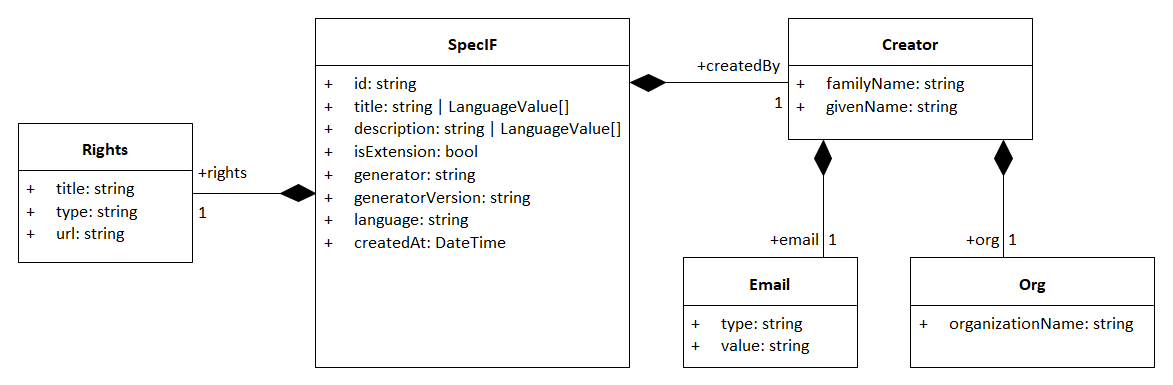
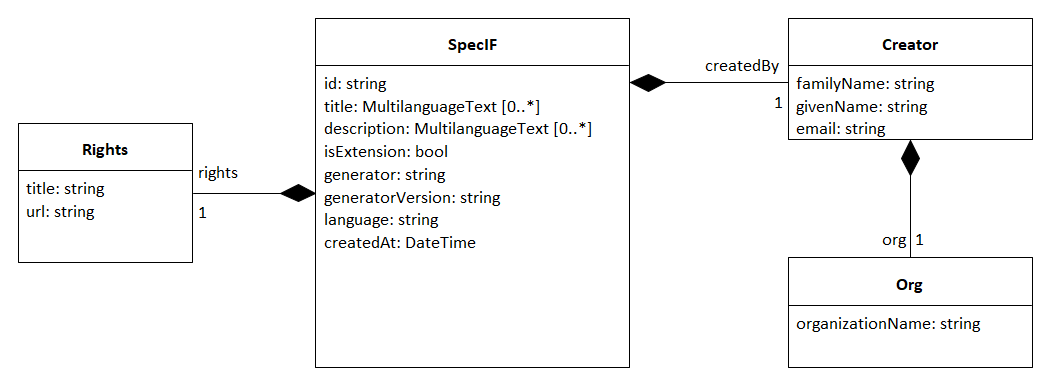
Rework of the metamodel chapter

diff --git a/documentation/03_SpecIF_Metamodel.md b/documentation/03_SpecIF_Metamodel.md
@@ -42,17 +42,17 @@ To express additional information about the SpecIF repository resp. the project 
 
 The SpecIF metaclass has the following attributes:
 
-* *id: string* -  A unique identifier for the SpecIF repository resp. the project represented by the SpecIF repository/file.
-* *title: string | LanguageValue[]* - A human readable description for the entire SpecIF repository/project.
-* *description: string | LanguageValue[]* - A human readable description for documentation purposes.
-* *isExtension: bool* - Indicates that the project is not schema-compliant on its own; by default the value is 'false'. Of course, it is expected that once extended the project is schema-compliant.
-* *generator: string* - The generator that generate the SpecIF data.
-* *generatorVersion: string* - The SpecIF generator tool version.
-* *language: string* - An IETF language tag such as 'en', 'en-US, 'fr' or 'de' showing the used language of simple property values. 
+- *id: string* -  A unique identifier for the SpecIF repository resp. the project represented by the SpecIF repository/file.
+- *title: MultilanguageText[]* - A human readable description for the entire SpecIF repository/project.
+- *description: MultilanguageText[]* - A human readable description for documentation purposes.
+- *isExtension: bool* - Indicates that the project is not schema-compliant on its own; by default the value is 'false'. Of course, it is expected that once extended the project is schema-compliant.
+- *generator: string* - The generator that generate the SpecIF data.
+- *generatorVersion: string* - The SpecIF generator tool version.
+- *language: string* - An IETF language tag such as 'en', 'en-US, 'fr' or 'de' showing the used language of simple property values. 
 Is superseded by a resource's, statement's or property's language value.
-* *createdAt: DateTime* - The creation date.
-* *createdBy: Creator* - The creator of the SpecIF data-set. If specified, at least an e-mail address must be given.
-* *rights: Rights* - A copyright and/or license information.
+- *createdAt: DateTime* - The creation date.
+- *createdBy: Creator* - The creator of the SpecIF data-set. If specified, at least an e-mail address must be given.
+- *rights: Rights* - A copyright and/or license information.
 
 #### Creator
 
@@ -62,15 +62,8 @@ The *Creator* metaclass defines information about the SpecIF data creator.
 
 * *familiyName: string* - The creators family name.
 * *givenName: string* - The creators given name.
-* *email: Email* - The creators E-Mail.
+* *email: string* - The creators E-Mail.
 * *org: Org* - The creators organization.
-
-#### Email
-
-The *Email* metaclass has the following attributes:
-
-* *type: string* - Tbd.
-* *value: string* - A valid E-Mail address.
 
 #### Org
 
@@ -84,7 +77,6 @@ The *Rights* metaclass defines a data structure to represent copyright and/or li
 It has the following attributes:
 
 * *title: string* - A title for the copyright/license information (e.g. 'Apache license v2')
-* *type: string* - A type information for the copyright/license information.
 * *url: string* - A valid uniform resource locator to forther copyright/license information.
 
 ## Data representation and data type definitions in SpecIF
@@ -134,21 +126,36 @@ The following metaclasses are inherited from BaseElement:
 * Resource
 * Statement
 * Node
-* Property
 * File
 
 Remark: The attributes of the base metaclass BaseElement are not described for each child class any more!
 
-### LanguageValue
+### MultilanguageText
 
-![The metaclass *LanguageValue*](./images/Metaclass_LanguageValue.png)
+![The metaclass *MultilanguageText*](./images/Metaclass_LanguageValue.png)
 
-To realize the concept of data storage in multiple languages, SpecIF defines a metaclass called *LanguageValue*.
+To realize the concept of data storage in multiple languages, SpecIF defines a metaclass called *MultilanguageText*.
+
+This class defines three attributes:
+
+* *text: string* - This attribute takes the data content in a certain language.
+* *format: TextFormat* - An enumeration value describing the text format. Allowed values are *plain* for plain text or *xhtml* for formatted content.
+* *language: string* - An IETF language tag such as 'en', 'en-US, 'fr' or 'de' showing the used language.
+
+Typically an array of these MultilanguageText objects is used to represent a value in multiple languages.
+Each single array value contains the same text content but in a specific language (english, german etc.).
+
+### EnumerationValue
+
+![The metaclass *EnumerationValue*](./images/Metaclass_EnumerationValue.png)
+
+To define enumerations in SpecIF the metaclass *EnumerationValue* is used to define the values for a enumeration data type.
 
 This class defines two attributes:
 
-* *text: string* - This attribute takes the data content in a certain language.
-* *language: string* - An IETF language tag such as 'en', 'en-US, 'fr' or 'de' showing the used language.
+* *id: string* - An identifier for the enumeration value. 
+This id must be unique within the collection of enumeration value for a enumeration data type definition.
+* *value: MultilanguageText[]* - The enumeration value definition in multiple languages.
 
 ### AlternativeId
 
@@ -186,7 +193,7 @@ SpecIF allows the definition of primitive data types for numbers, formated or un
 So the DataType metaclass defines the following attributes to stisfy these requirements:
 
 * *title: string* - A unique name for the defined data type (e.g. 'string')
-* *description: string | LanguageValue[]* - A human readable description of the data type for documentation purposes.
+* *description: MultilanguageText[]* - A human readable description of the data type for documentation purposes.
 * *type* - A formal definition of the used base type. The allowed types are:
   * string
   * integer
@@ -195,8 +202,9 @@ So the DataType metaclass defines the following attributes to stisfy these requi
   * Enumeration
 * *maxInclusive* - The maximum value for a numeric data type
 * *fractionDigits* - The number of digits for floating point numbers
-* *values* - A list of enumeration values
+* *values* - A list of enumeration values.
 * *multiple: bool* - This flag indicates for enumeration definitions, that a multiple selection of enumeration values should be possible.
+* *maxLength: int* - The maximum length of a text value.
 
 ### PropertyClass
 
@@ -207,7 +215,7 @@ Properties are used to define data of Resource and Statement elements.
 The PropertyClass has the following attributes:
 
 *  *title: string* - A unique name for the defined PropertyClass (e.g. 'dcterms:title')
-*  *description: string | LanguageValue[]* - A human readable description of the data type for documentation purposes.
+*  *description: MultilanguageText[]* - A human readable description of the data type for documentation purposes.
 *  *multiple: bool* - This flag indicates for the Property, that the property value can hold multiple values (muliple enumeration values or an array of primitive data).
 *  *dataType* - This association references the used *DataType* for the ProperyClass.
 
@@ -223,7 +231,7 @@ It is possible to add new properties and reuse the existing ones from the base e
 The ResourceClass has the following attributes:
 
 * *title: string* - A unique name for the defined ResourceClass (e.g. 'IREB:Requirement')
-* *description: string | LanguageValue[]* - A human readable description of the data type for documentation purposes.
+* *description: MultilanguageText[]* - A human readable description of the data type for documentation purposes.
 * *icon: string* - A icon definition usable by authoring tools for the Resources. This can be a language code of a unicode symbol or a base64 encoded image.
 * *isHeading: bool* - Indicates, that the defined resource is a heading.
 * *instantiation* - Values: 'user' or 'system'. Tbd.
@@ -231,6 +239,8 @@ The ResourceClass has the following attributes:
 * *propertyClasses* - A list of PropertyClass references to define which Properties shall be used for the defined Resource type. 
  
 ### StatementClass
+
+![The metaclass *StatementClass*](./images/Metaclass_StatementClass.png)
 
 A *StatementClass* inherits the ResourceClass and defines the data type definition of a SpecIF statement. 
 Statements are the edeges in a SpecIF graph data structure. 
@@ -240,6 +250,7 @@ This is done by referencing the allowed subject ResourceClass elements and objec
 
 The StatementClass has the following attributes:
 
+* *isUndirected: bool* - This flag indicates that a statement defined by this statement class has no direction. It can be used and navigated in both directions.
 * *subjectClasses* - A collection of references to ResourceClass elements to define the allowed types for the Statement subject.
 * *objectClasses* - A collection of references to ResourceClass elements to define the allowed types for the Statement object. 
 
@@ -248,12 +259,18 @@ The StatementClass has the following attributes:
 ![The metaclass *Property*](./images/Metaclass_Property.png)
 
 A *Property* is an instance of a PropertyClass and is used to store a concrete data value in SpecIF.
-SpecIF allows, that a property value can be a simple string value, a collection of LanguageValue elements for multi-language data or an array of values. 
-Arrays can be a collection of simple string values or a collection of LanguagValue elements.
+Each Property in SpecIF is defined as an array of values. 
+The attribute *isMultiple* in the PropertyClass specifies if a property value is an array or a single value.
+
+If isMultiple is set to false and the propery attribute values contains more than one value, only the first value shall be used and all other array elements shall be ignored!
+
+Depending on the DataTyoe, that is used as for definition of the PropertyClass, the each value of the value is an array of MultilanguegeText for textual content 
+or a string for all other contents (numbers).
 
 A Property has the following attributes:
 
-* *value* - The value of the property to store the property data.
+* *id: string* - A unique identifier for the Property.
+* *values* - The values of the property to store the property data (multiple or single values).
 * *class* - A reference to the PropertyClass element defining the Property type.
 
 ### Resource
@@ -266,8 +283,6 @@ This might be a Requirement, a model element in UML or SysML or an electrical ci
 
 A Resource has the following attributes:
 
-* *language* - This attribute is used to specify the used language in the Property values when no LanguageValue elements are used, but just simple strings. 
-This enables a tool to display the correct language settings (e.g spell checking etc.) for simple string values.
 * *alternativeIds* - Alternative ID values are used to define further ID values in addition to the *id* attribute in SpecIF. This is helpful for data integrations where multiple tools have their own internal ids. So you can represent these 'legacy' IDs in SpecIF.
 * *class* - A reference to the ResourceClass element defining the Resource type.
 * *properties* - A collection of Property elements to store property data for the Resource.
@@ -296,8 +311,8 @@ This allows a spearation of data model and view (view concept as known e.g. from
 
 The Node elemnt have the following attributes:
 
-* *title: string* - A title for the Node. Mostly used for internal purposes, because the title comes normally from the referenced Resource element properties.
-* *description: string | LanguageValue[]* - A human readable description for documentation purposes. Mostly used for internal purposes, because the description comes normally from the referenced Resource element properies.
+* *title: MultilanguageText[]* - A title for the Node. Mostly used for internal purposes, because the title comes normally from the referenced Resource element properties.
+* *description: MultilanguageText[]* - A human readable description for documentation purposes. Mostly used for internal purposes, because the description comes normally from the referenced Resource element properies.
 * *nodes* - A collection of child node elements for the Node.
 * *resource* - A reference to the Resource element used as Node tree node data.
 
@@ -313,5 +328,6 @@ The File-element allows to describe and reference files contained in a SpecIF re
 The metaclass File has the following attributes:
 
 * *title: string* - In case of a file, the title is the absolute or relative URL.
-* *description: string | LanguageValue[]* - A human readable description for documentation purposes.
+* *description: MultilanguageText[]* - A human readable description for documentation purposes.
 * *type: string* - The file's media type (formerly MIME-type) according to https://www.iana.org/assignments/media-types/media-types.xhtml. 
+* *url: string* - An absolute or relative URL to the file. If missing, the title applies.
